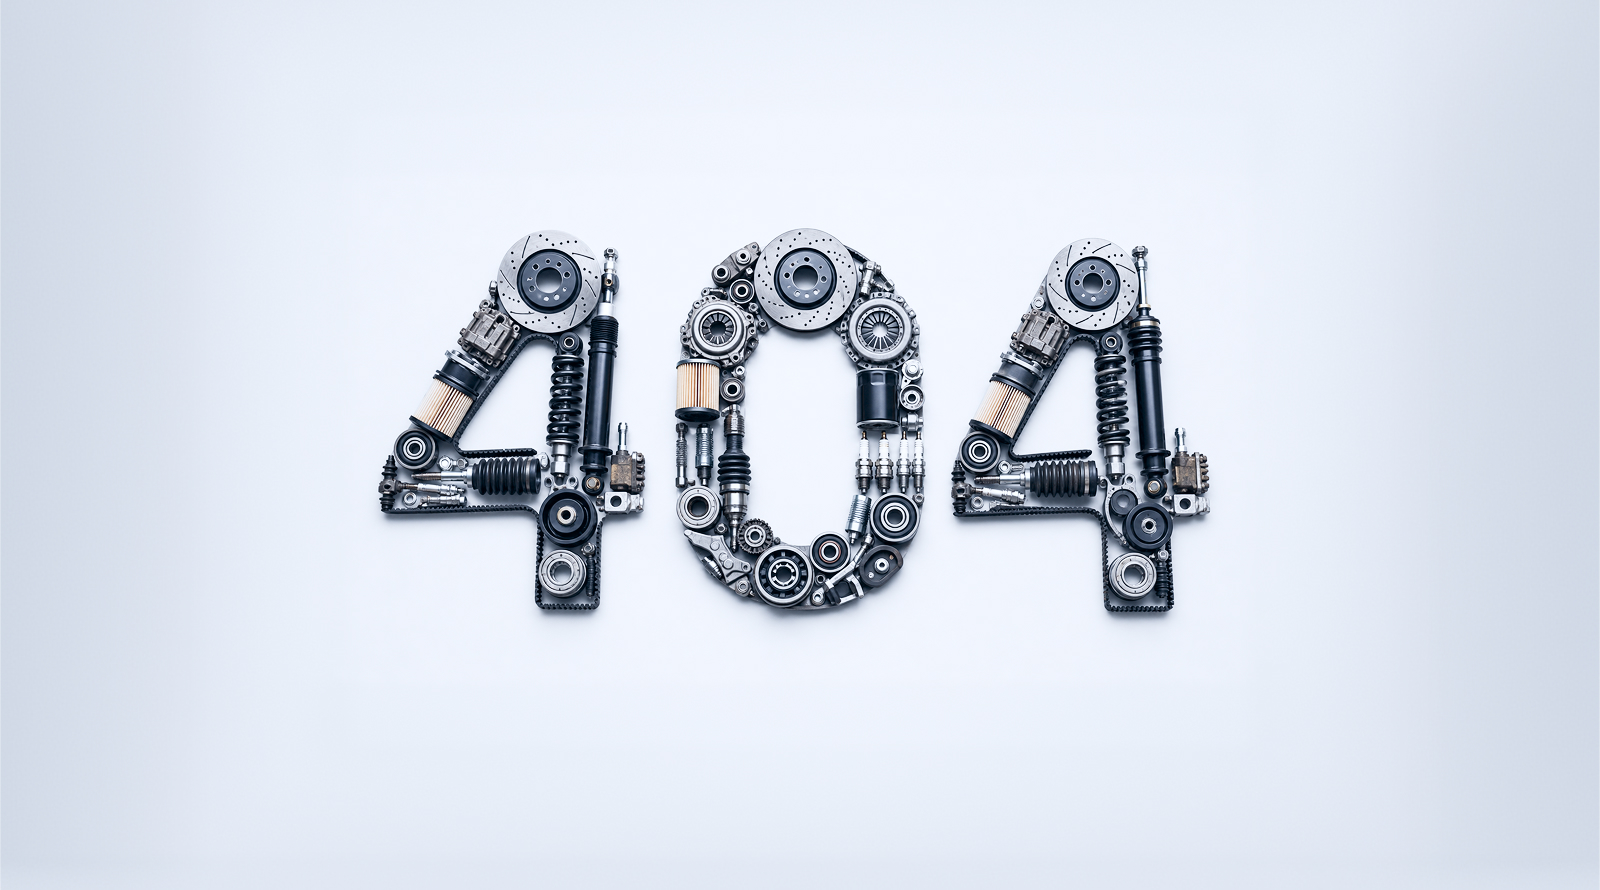
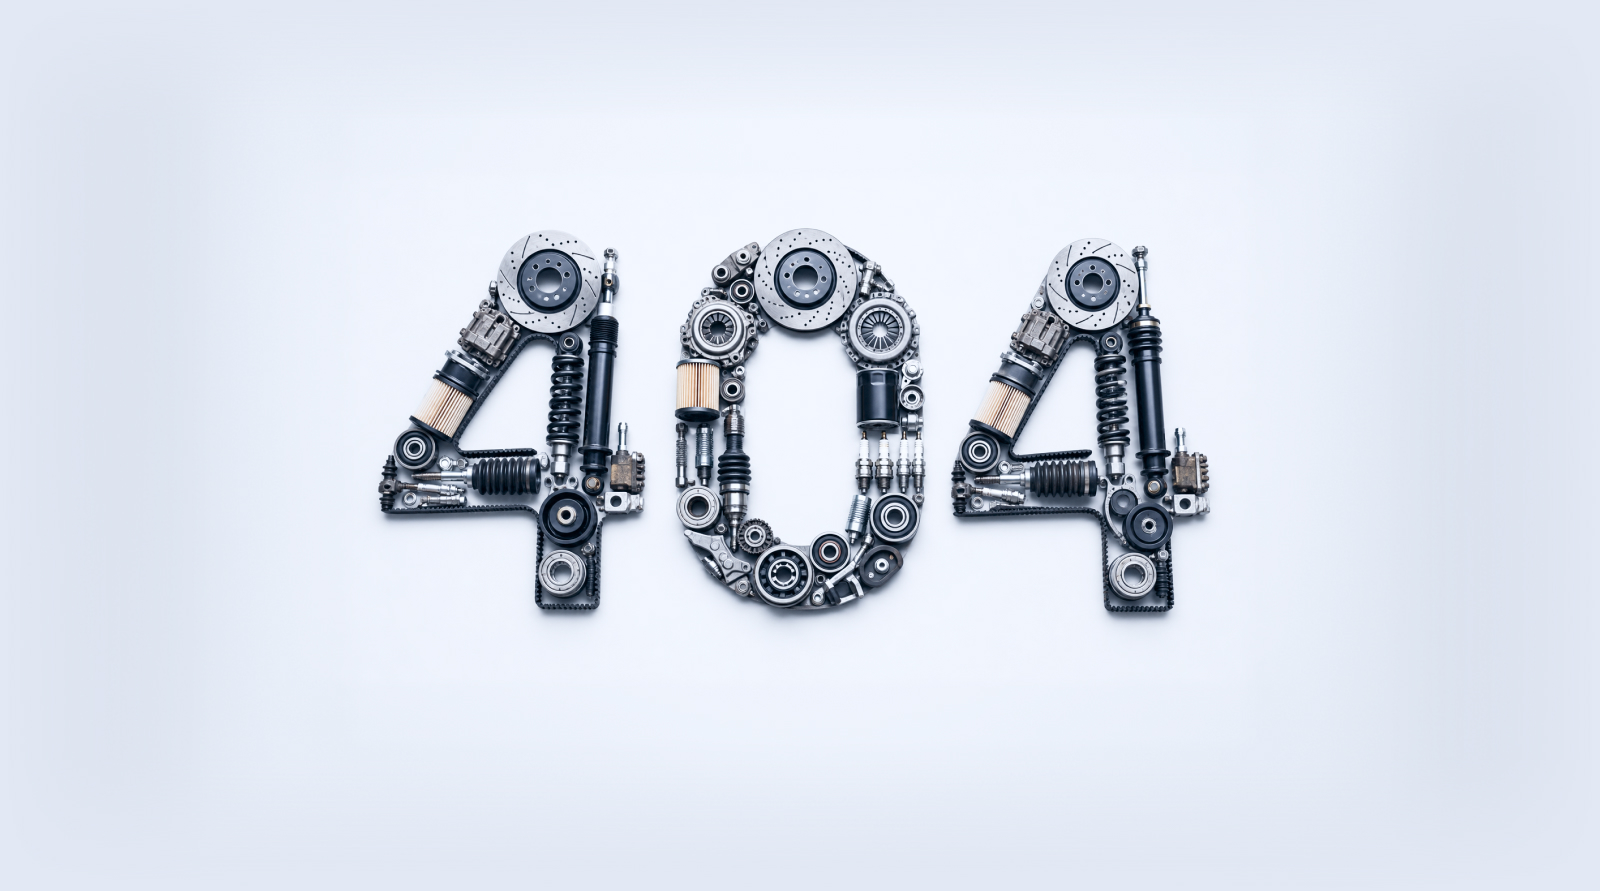
404

Changed region(s): [[0.2188, 0.273, 0.75, 0.6978]]

diff --git a/404.html b/404.html
@@ -1789,13 +1789,17 @@
 					<img data-src="images/404.jpg" src="images/img_plug.png" alt="" class="lazyload page-error__img">
 
 					<div class="cont">
-						<h1 class="page-title">Что-то пошло не так</h1>
+						<div class="page-error__wrap">
+							<div class="page-error__top">
+								<h1 class="page-title">Что-то пошло не так</h1>
+							</div>
 
-						<div class="page-error__bot _flex">
-							<div class="page-error__desc">Похоже, такой страницы не существует или она была перемещена. Вернитесь на главную или воспользуйтесь меню — мы поможем найти нужную услугу.</div>
+							<div class="page-error__bot _flex">
+								<div class="page-error__desc">Похоже, такой страницы не существует или она была перемещена. Вернитесь на главную или воспользуйтесь меню — мы поможем найти нужную услугу.</div>
 
-							<div class="page-error__btn-box">
-								<a href="/" class="btn-blue page-error__btn">Перейти на главную</a>
+								<div class="page-error__btn-box">
+									<a href="/" class="btn-blue page-error__btn">Перейти на главную</a>
+								</div>
 							</div>
 						</div>
 					</div>

diff --git a/css/styles.css b/css/styles.css
@@ -7044,41 +7044,46 @@ input[type=checkbox]:checked + .checkbox-slider__text .checkbox-slider__text-dot
 
 .page-error
 {
-	padding: 64px 0;
 	position: relative;
-	height: 100vh;
+    background: #E2E8F4;
+    overflow: hidden;
 }
 
 .page-error__img
 {
 	position: absolute;
 	top: 0;
-	left: 0;
+	left: 50%;
+    transform: translateX(-50%);
 
 	display: block;
 
 	width: 100%;
-	height: 100%;
-
-	object-fit: cover;
+    max-width: 1600px;
 }
 
-.page-error .cont
-{
-	height: 100%;
+.page-error__wrap{
+    padding: 64px 0;
 	display: flex;
 	flex-direction: column;
+	min-height: calc(70vh - 160px);
+}
+
+.page-error__top{
+    width: 100%;
+    flex-grow: 1;
 }
 
 .page-error__bot
 {
+    width: 100%;
 	justify-content: space-between;
 	flex-wrap: nowrap;
 	gap: 30px;
 
 	border-top: 1px solid #838691;
 	padding-top: 40px;
-	margin-top: auto;
+	margin-top: 587px;
 }
 
 .page-error__desc

diff --git a/index.html b/index.html
@@ -181,6 +181,13 @@
 
 						<span class="tooltip_text">Ссылка скопирована</span>
 					</a>
+					<a href="/megapower-site/404.html" class="page tooltip">
+						404
+
+						<button type="button" class="copy" data-href-link="https://ivanlayout.github.io/megapower-site/404.html"></button>
+
+						<span class="tooltip_text">Ссылка скопирована</span>
+					</a>
 				</div>
 			</div>
 		</section>

diff --git a/css/response_767.css b/css/response_767.css
@@ -404,6 +404,15 @@
 	.section-empty__btns{
 		margin-top: 48px;
 	}
+
+
+	.page-error__img{
+		top: 6%;
+	}
+
+	.page-error__bot{
+		margin-top: 40%;
+	}
 	/* commit */
 
 	.cats-popular_marg

diff --git a/css/response_479.css b/css/response_479.css
@@ -242,6 +242,16 @@
 		margin-bottom: 24px;
 	}
 
+
+	.page-error__img{
+		width: 174%;
+		top: 6%;
+	}
+
+	.page-error__bot {
+		margin-top: 91%;
+	}
+
 	/* commit */
 
 	.page-title 

diff --git a/css/response_1399.css b/css/response_1399.css
@@ -215,6 +215,11 @@
         font-size: 20px;
     }
 
+
+    .page-error__bot{
+        margin-top: 36%;
+    }
+
 	/* commit */
 
 	.product-info__images 

diff --git a/css/response_1023.css b/css/response_1023.css
@@ -1473,7 +1473,7 @@
 	}
 
 
-	.page-error
+	.page-error__wrap
 	{
 		padding-top: 32px;
 		padding-bottom: 40px;
